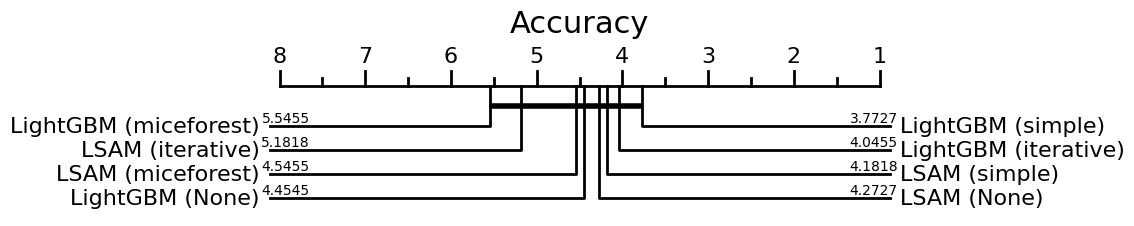
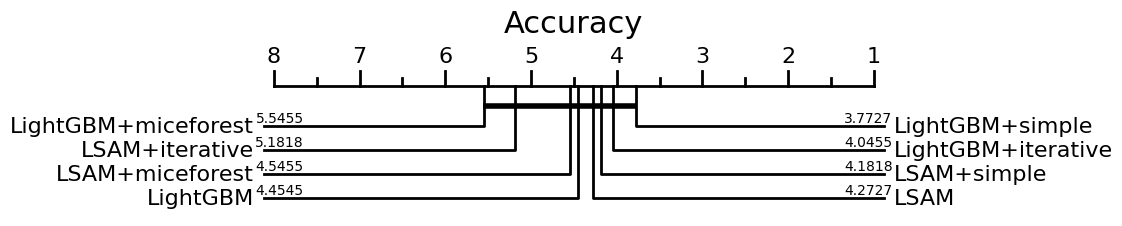
nomenclature

diff --git a/cd-diagram/run_diagram.py b/cd-diagram/run_diagram.py
@@ -17,12 +17,20 @@ if not args.corrupt:
             'accuracy':[]
         }
     for i, dsname in enumerate(raw.dsname.values):
-        df_perf["classifier_name"].append("LSAM ({})".format(raw.loc[i, "imputation"]))
-        df_perf["dataset_name"].append(dsname)
-        df_perf["accuracy"].append(raw.loc[i,"acc_lsam"])
-        df_perf["classifier_name"].append("LightGBM ({})".format(raw.loc[i, "imputation"]))
-        df_perf["dataset_name"].append(dsname)
-        df_perf["accuracy"].append(raw.loc[i,"acc_gbm"])
+        if raw.loc[i, "imputation"] == "None":
+            df_perf["classifier_name"].append("LSAM")
+            df_perf["dataset_name"].append(dsname)
+            df_perf["accuracy"].append(raw.loc[i,"acc_lsam"])
+            df_perf["classifier_name"].append("LightGBM")
+            df_perf["dataset_name"].append(dsname)
+            df_perf["accuracy"].append(raw.loc[i,"acc_gbm"])
+        else:
+            df_perf["classifier_name"].append("LSAM" + "+" + raw.loc[i, "imputation"])
+            df_perf["dataset_name"].append(dsname)
+            df_perf["accuracy"].append(raw.loc[i,"acc_lsam"])
+            df_perf["classifier_name"].append("LightGBM" + "+" + raw.loc[i, "imputation"])
+            df_perf["dataset_name"].append(dsname)
+            df_perf["accuracy"].append(raw.loc[i,"acc_gbm"])
 
     df_perf = pd.DataFrame(df_perf)
     print(df_perf)
@@ -35,12 +43,20 @@ if not args.corrupt:
             'accuracy':[]
         }
     for i, dsname in enumerate(raw.dsname.values):
-        df_perf["classifier_name"].append("LSAM ({})".format(raw.loc[i, "imputation"]))
-        df_perf["dataset_name"].append(dsname)
-        df_perf["accuracy"].append(-raw.loc[i,"nll_lsam"])
-        df_perf["classifier_name"].append("LightGBM ({})".format(raw.loc[i, "imputation"]))
-        df_perf["dataset_name"].append(dsname)
-        df_perf["accuracy"].append(-raw.loc[i,"nll_gbm"])
+        if raw.loc[i, "imputation"] == "None":
+            df_perf["classifier_name"].append("LSAM")
+            df_perf["dataset_name"].append(dsname)
+            df_perf["accuracy"].append(-raw.loc[i,"nll_lsam"])
+            df_perf["classifier_name"].append("LightGBM")
+            df_perf["dataset_name"].append(dsname)
+            df_perf["accuracy"].append(-raw.loc[i,"nll_gbm"])
+        else:
+            df_perf["classifier_name"].append("LSAM" + "+" + raw.loc[i, "imputation"])
+            df_perf["dataset_name"].append(dsname)
+            df_perf["accuracy"].append(-raw.loc[i,"nll_lsam"])
+            df_perf["classifier_name"].append("LightGBM" + "+" + raw.loc[i, "imputation"])
+            df_perf["dataset_name"].append(dsname)
+            df_perf["accuracy"].append(-raw.loc[i,"nll_gbm"])
 
     df_perf = pd.DataFrame(df_perf)
     print(df_perf)

diff --git a/aux/view_tables.py b/aux/view_tables.py
@@ -223,19 +223,19 @@ final_results.to_pickle('../results/openml/openml_nll.pickle')
 final_results.fillna(np.inf, inplace=True)
 print("None")
 sub = final_results["None"] 
-s = sub.style.format(precision=2).highlight_min(axis=1, props="textbf:--rwrap;")
+s = sub.style.format(precision=2).highlight_max(axis=1, props="textbf:--rwrap;")
 print(s.to_latex())
 print("MCAR")
 sub = final_results["MCAR"] 
-s = sub.style.format(precision=2).highlight_min(axis=1, props="textbf:--rwrap;")
+s = sub.style.format(precision=2).highlight_max(axis=1, props="textbf:--rwrap;")
 print(s.to_latex())
 print("MAR")
 sub = final_results["MAR"] 
-s = sub.style.format(precision=2).highlight_min(axis=1, props="textbf:--rwrap;")
+s = sub.style.format(precision=2).highlight_max(axis=1, props="textbf:--rwrap;")
 print(s.to_latex())
 print("MNAR")
 sub = final_results["MNAR"] 
-s = sub.style.format(precision=2).highlight_min(axis=1, props="textbf:--rwrap;")
+s = sub.style.format(precision=2).highlight_max(axis=1, props="textbf:--rwrap;")
 print(s.to_latex())
 print('NLL')
 print("win ratio baseline: {}".format(np.sum(final_results["None"]['None']['LSAM'].values < final_results["None"]['None']['LightGBM'].values) / len(final_results['None']['None'])))
@@ -318,4 +318,12 @@ sub.fillna(np.inf, inplace=True)
 s = sub.style.format(precision=2).highlight_min(axis=1, props="textbf:--rwrap;")
 print(s.to_latex())
 
-
+process_dict = table_maker2("accuracy")
+final_results = pd.DataFrame(process_dict)
+datasets = final_results[" "][" "]["Dataset"].values
+final_results.index = datasets
+final_results.to_pickle('../results/openml/openml_nll_uncorrupted.pickle')
+sub = final_results["None"] 
+sub.fillna(np.inf, inplace=True)
+s = sub.style.format(precision=2).highlight_min(axis=1, props="textbf:--rwrap;")
+print(s.to_latex())
